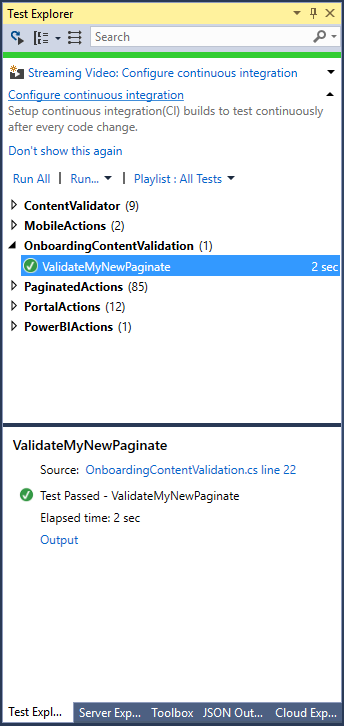
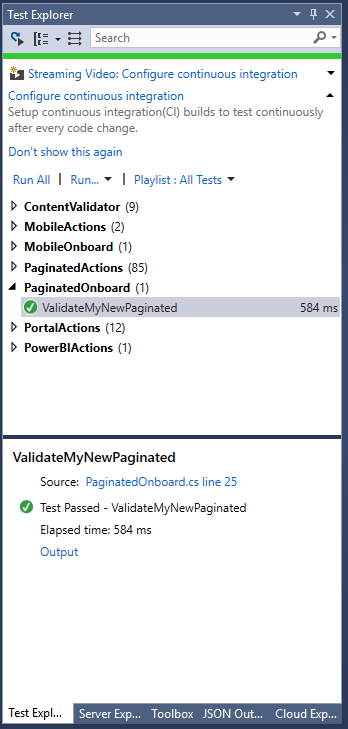
mobile documentation

Changed region(s): [[0.0, 0.0, 1.0, 1.0]]

diff --git a/docs/OnboardMobile.md b/docs/OnboardMobile.md
@@ -1,95 +1,61 @@
-# How to onboard a new Paginated Reports Scenario
+# How to onboard a new Mobile Reports Scenario
 
-For this tutorial, we will create a new scenario called **MyNewPaginated** which will contain a new set of your reports and the datasources
+For this tutorial , we will create a new scenario called **MyNewMobile** which will contain a new set of your mobile reports and the data sources.
 
-* In the Visual Studio Solution add a new folder under RSLoad\ContentManager\RuntimeResources\MyNewPaginated
-* Add the reports to the new folder, it should look like this 
+* Create your mobile report, shared dataset and shared data source in your server under the MyNewMobile folder, it should look like this
+* In the Visual Studio Solution add a new folder under RSLoad\ContentManager\RuntimeResources\MyNewMobile
+* Download the report and the shared dataset from the portal 
+* Add the report and the shared dataset to the new folder, it should look like this 
 
-![](images/image1.png)
+![](images/image101.png)
 
-* Add the Data sources that the reports use in the file RSLoad\ContentManager\RuntimeResources\DataSources.xml 
+* Add the Data sources that the report uses in the file RSLoad\ContentManager\RuntimeResources\DataSources.xml 
 
-* Ensure the following conditions
-    * Your reports uses a shared data source 
+* Ensure the following conditions are met:
     * The data source name in the report matches the one you have in the DataSources.xml 
     * The data source is in the same folder than the report
     * The credentials of the data source are SQL Credentials and those specified in RSTest.Common.ReportServer.dll.Config for the settings DatasourceSQLUser and DatasourceSQLPassword
+    * Ensure the mobile report is using the dataset in the same folder 
+    * The dataset reference is set to the current folder, you can validate in the xml view of the data set
+```xml
+<DataSourceReference>/MyNewMobile/AdventureWorks</DataSourceReference>
+```
 
 DataSources.xml should looks like this
 ```xml
 <?xml version="1.0" encoding="utf-8" ?>
 <DataSources>
-  <DataSource Name="BoringDatasource" Extension="SQL"  Database="AdventureWorks2000" UseWindowsCredential="false" Enabled="true" Prompt="" ImpersonateUser="false"></DataSource>
+  <DataSource Name="AdventureWorks" Extension="SQL"  Database="AdventureWorks" UseWindowsCredential="false" Enabled="true" Prompt="" ImpersonateUser="false"></DataSource>
 </DataSources>
 ```
 
-## Validating the new report and data source
-Now is time to test that the pipeline works correctly, the easiest way to do it is adding a content validation unit test, there is a class in the project ready for this RSLoad\Actions\Professional\OnboardingContentValidation.cs just edit few lines with **MyNewPaginated** and should look like this
+## Validating the new mobile report, dataset and data source
+Now is time to test that the pipeline works correctly, the easiest way to do it is adding a content validation unit test, there is a class in the project ready for this RSLoad\Actions\Mobile\MobileOnboard.cs just edit few lines with **MyNewMobile** and should look like this
 ```cs
-private static List<string> _loadTestScenariosToDeployInServer = new List<string>() { "MyNewPaginated" };
-[TestMethod]
-public void ValidateMyNewPaginate()
-{
-    ValidateAllReportsRenderHTML5_UnitTest("MyNewPaginated");
-}
+        private static List<string> _loadTestScenariosToDeployInServer = new List<string>() { "MyNewMobile" };
+        [TestCategory("DependsOnDatasource")]
+        [TestMethod]
+        public void ValidateMyNewMobile()
+        {
+            LoadAllMobileReports();
+        }
 ```
 Execute the test 
 
-![](images/image2.png)
+![](images/image102.png)
 
 You can also validate that the report is in the server in the new folder
 
-![](images/image3.png)
+![](images/image103.png)
 
 ## Create the new  load scenario
 
-Add a new load test to the solution
+Follow the steps to create the load scenario detailed in the tutorial for [How to onboard a new Paginated Reports Scenario](../master/docs/OnboardPaginated.md)
 
-![](images/image4.png)
+For mobile reports there is only one test method available LoadMobileReports , this will select randomly one of the reports and execute it during the load test
 
-Lets use 1 hour duration
+You can combine it with the Portal actions as ListDatasets, ListDataSources, ListFolders and ListMobileReports
 
-![](images/image5.png)
+![](images/image104.png)
 
-Ensure the scenario is called MyNewPaginated (same that the folder you just added)
-
-![](images/image6.png)
-
-Just for this example lets start with 10 concurrent request with an increase of 10 new users every 600 seconds
-
-![](images/image7.png)
-
-Select the set of actions you want to test with your reports, I have chosen Render , export and a couple of portal actions
-
-![](images/image8.png)
-
-Adjust the percentages
-
-![](images/image9.png)
-
-The loadtest should look like this
-
-![](images/image10.png)
-
-Now add a load test plug-in 
-
-![](images/image11.png)
-
-The only available is InitContentPlugin, this step is important as this Plug-in takes care of initializing the tests and publish the reports and data sources to the server
-
-![](images/image12.png)
-
-![](images/image13.png)
-
-And now is time to run the test
-
-![](images/image14.png)
-
-![](images/image15.png)
-
-You can see the results for each of your reports and the other actions you selected in the summary report when the load run is completed
-
-![](images/image16.png)
-
-Pro Tip: The load tests run in an agent in your machine so you won't see the traces and logs in Visual Studio , however you can use [dbgview](https://technet.microsoft.com/en-us/sysinternals/debugview.aspx) to see the traces from the test meanwhile is executing
-
+![](images/image105.png)

diff --git a/docs/OnboardPaginated.md b/docs/OnboardPaginated.md
@@ -9,7 +9,7 @@ For this tutorial, we will create a new scenario called **MyNewPaginated** which
 
 * Add the Data sources that the reports use in the file RSLoad\ContentManager\RuntimeResources\DataSources.xml 
 
-* Ensure the following conditions
+* Ensure the following conditions are met:
     * Your reports uses a shared data source 
     * The data source name in the report matches the one you have in the DataSources.xml 
     * The data source is in the same folder than the report
@@ -24,7 +24,7 @@ DataSources.xml should looks like this
 ```
 
 ## Validating the new report and data source
-Now is time to test that the pipeline works correctly, the easiest way to do it is adding a content validation unit test, there is a class in the project ready for this RSLoad\Actions\Professional\OnboardingContentValidation.cs just edit few lines with **MyNewPaginated** and should look like this
+Now is time to test that the pipeline works correctly, the easiest way to do it is adding a content validation unit test, there is a class in the project ready for this RSLoad\Actions\Professional\PaginatedOnboard.cs just edit few lines with **MyNewPaginated** and should look like this
 ```cs
 private static List<string> _loadTestScenariosToDeployInServer = new List<string>() { "MyNewPaginated" };
 [TestMethod]
